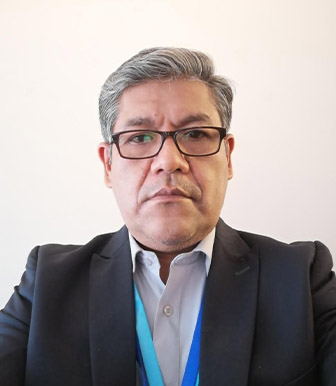
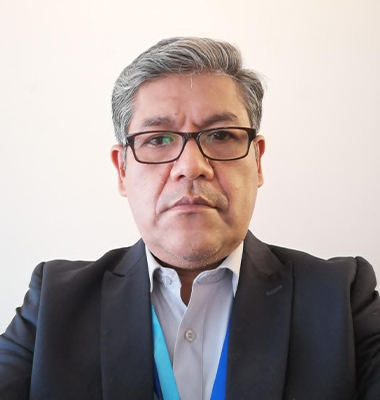
modificando la foto del ponente humber fernandez

Changed region(s): [[0.0, 0.4663, 1.0, 1.0], [0.2976, 0.0933, 0.7143, 0.4352], [0.7143, 0.6839, 0.744, 0.715]]

diff --git a/src/components/sections/timeLine/data.ts b/src/components/sections/timeLine/data.ts
@@ -11,12 +11,12 @@ import romario from "./assets/romario diaz.webp"
 import holgado from "./assets/luis alberto.webp"
 import edy from "./assets/edy.jpg"
 import ana from "./assets/ana.png"
-import humberto from "./assets/Humberto-Fernandez-Calle.jpg"
 import norma from "./assets/norma lorena.webp";
 import luis from "./assets/luis jose.jpg";
 import cesar from "./assets/cesar.jpeg"
 import eduardo_zubieta from "./assets/Eduardo-Zubieta.png"
 import luisDiaz from "./assets/Luis-diaz.jpg"
+import humbertoFernandez from "./assets/Humberto-Fernandez-Calle.jpg"
 // LOS DATOS YA ESTÁN ACTUALIZADOS excepto la foto de cada ponente
 
 export const data = [
@@ -97,7 +97,7 @@ export const data = [
       tituloPonencia: "Integración De Herramientas De IA En El Proceso De Enseñanza-Aprendizaje En Ingeniería De Sistemas",
       nombrePonente: "Humberto Fernandez Calle",
       horario: "15:00 - 16:00",
-      foto: humberto,
+      foto: humbertoFernandez,
       descripFoto: "Foto del ponente Humberto Fernandez Calle"
     },
     {

diff --git a/src/components/sections/featured/ponentesData.ts b/src/components/sections/featured/ponentesData.ts
@@ -18,6 +18,7 @@ import jose_carlos from "./assets/jose carlos.jpg"
 import eduardo_zubieta from "./assets/Eduardo-Zubieta.png"
 import luisDiaz from "./assets/Luis-diaz.jpg"
 import marcoAntornio from "./assets/Marco-Antonio-Poma-Choquehuanca.jpg"
+import humbertoFernandez from "./assets/Humberto-Fernandez-Calle.jpg"
 
 import bolivia from "./banderas/bolivia.jpg"
 import peru from "./banderas/peru.jpg"
@@ -225,7 +226,7 @@ export const data = [
     estudio: "Universidad Amazónica de Pando",
     estudioAbreviado: "UAP",
     modalidad: 'Presencial',
-    foto: marcoAntornio,
+    foto: humbertoFernandez,
     id: 17,
     bandera: bolivia 
   }
